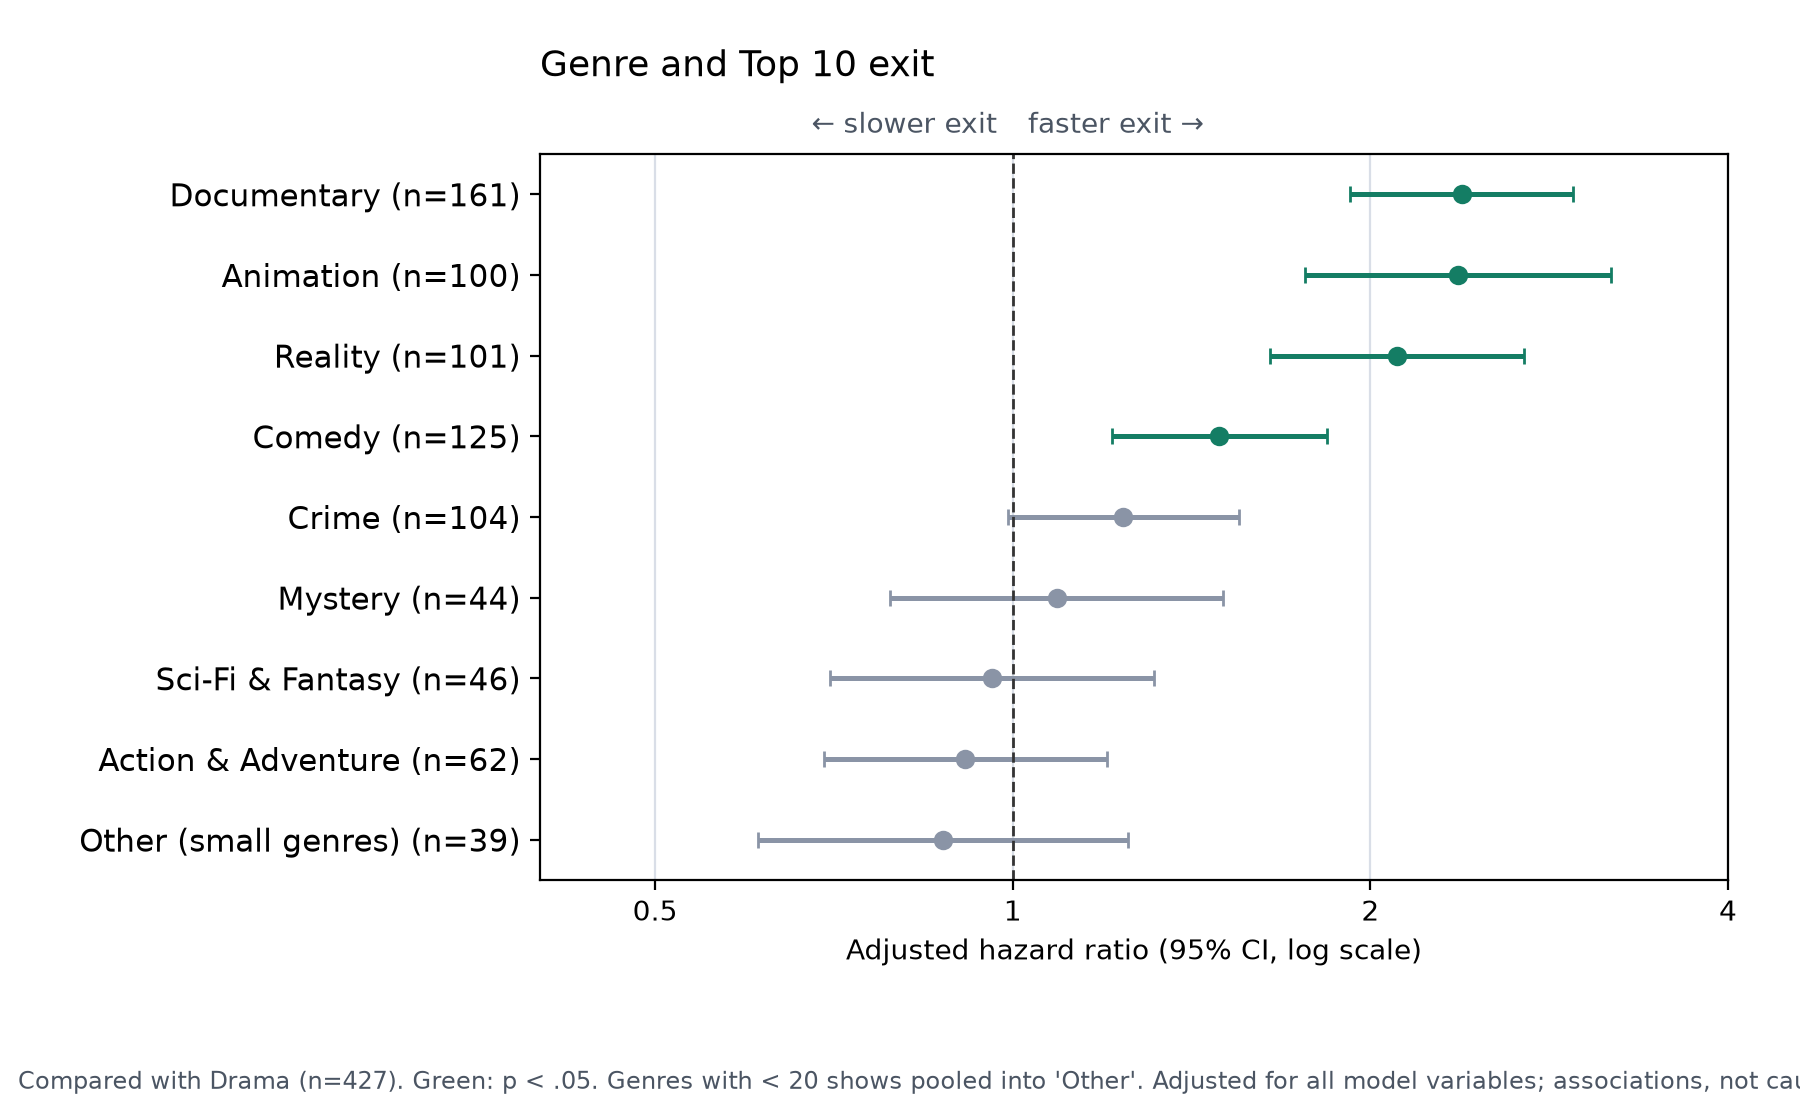
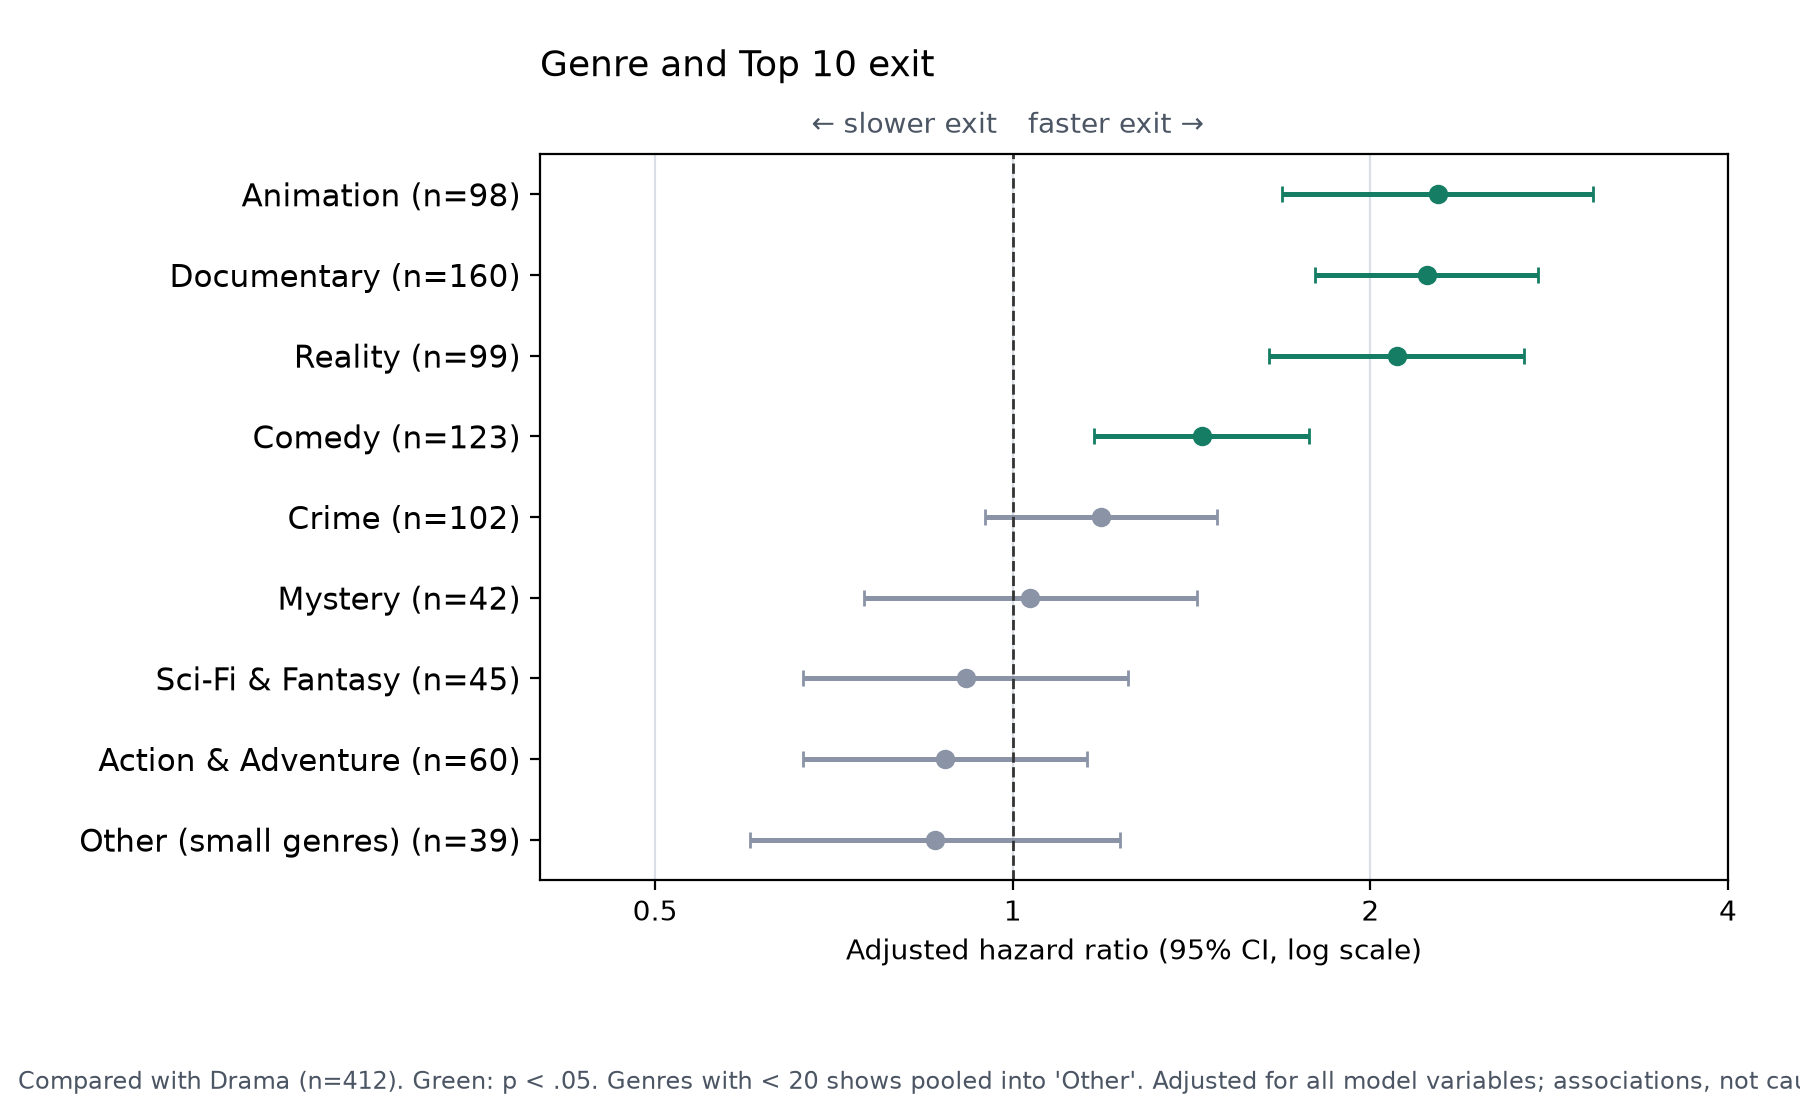
removed censored shows from cox model

diff --git a/cox_regression_model.py b/cox_regression_model.py
@@ -26,6 +26,7 @@ FORMULA = ("C(genre) + C(lang) + vote_average_z + log_episodes_z + "
 
 def load_model_data() -> pd.DataFrame:
     df = pd.read_csv(MASTER_PATH)
+    input_n = len(df)
     release = pd.to_datetime(df["first_air_date"], errors="coerce")
     df = df.loc[release.notna()].copy()
     release = release.loc[df.index]
@@ -36,6 +37,11 @@ def load_model_data() -> pd.DataFrame:
     for col in ["vote_average", "number_of_episodes", "number_of_seasons"]:
         df.loc[df[col] == 0, col] = np.nan
     df = df.dropna(subset=["vote_average", "number_of_episodes", "number_of_seasons"])
+    metadata_filtered_n = len(df)
+
+    # Keep confirmed exits only; event_observed == 0 marks right-censored shows.
+    censored_dropped_n = int((df["event_observed"] == 0).sum())
+    df = df.loc[df["event_observed"] == 1].copy()
 
     # Language: English is the reference; everything beyond the top 4 -> "other".
     df["lang"] = np.where(df["original_language"].isin(TOP_LANGS), df["original_language"], "other")
@@ -52,6 +58,9 @@ def load_model_data() -> pd.DataFrame:
     df["log_episodes"] = np.log(df["number_of_episodes"])
     for col in ["vote_average", "log_episodes", "number_of_seasons"]:
         df[col + "_z"] = (df[col] - df[col].mean()) / df[col].std()
+    df.attrs["input_n"] = input_n
+    df.attrs["metadata_dropped_n"] = input_n - metadata_filtered_n
+    df.attrs["censored_dropped_n"] = censored_dropped_n
     return df
 
 
@@ -69,8 +78,12 @@ def main() -> None:
     cph.print_summary()
     cph.summary.to_csv(SUMMARY_PATH, index_label="term")
 
-    print(f"\nn = {len(df)} shows; {int(df['event_observed'].sum())} exits; "
-          f"{int((df['event_observed'] == 0).sum())} censored (kept in model)")
+    print(f"\nn = {len(df)} shows retained; {int(df['event_observed'].sum())} confirmed exits; "
+          f"{int((df['event_observed'] == 0).sum())} censored")
+    print(f"Dropped overall: {df.attrs['input_n'] - len(df)} of {df.attrs['input_n']} shows "
+          f"({df.attrs['metadata_dropped_n']} for missing release date and/or "
+          f"placeholder predictors, and "
+          f"{df.attrs['censored_dropped_n']} right-censored shows)")
     print(f"Concordance index (in-sample): {cph.concordance_index_:.3f}")
 
     ph = proportional_hazard_test(cph, df[cols], time_transform="rank").summary
